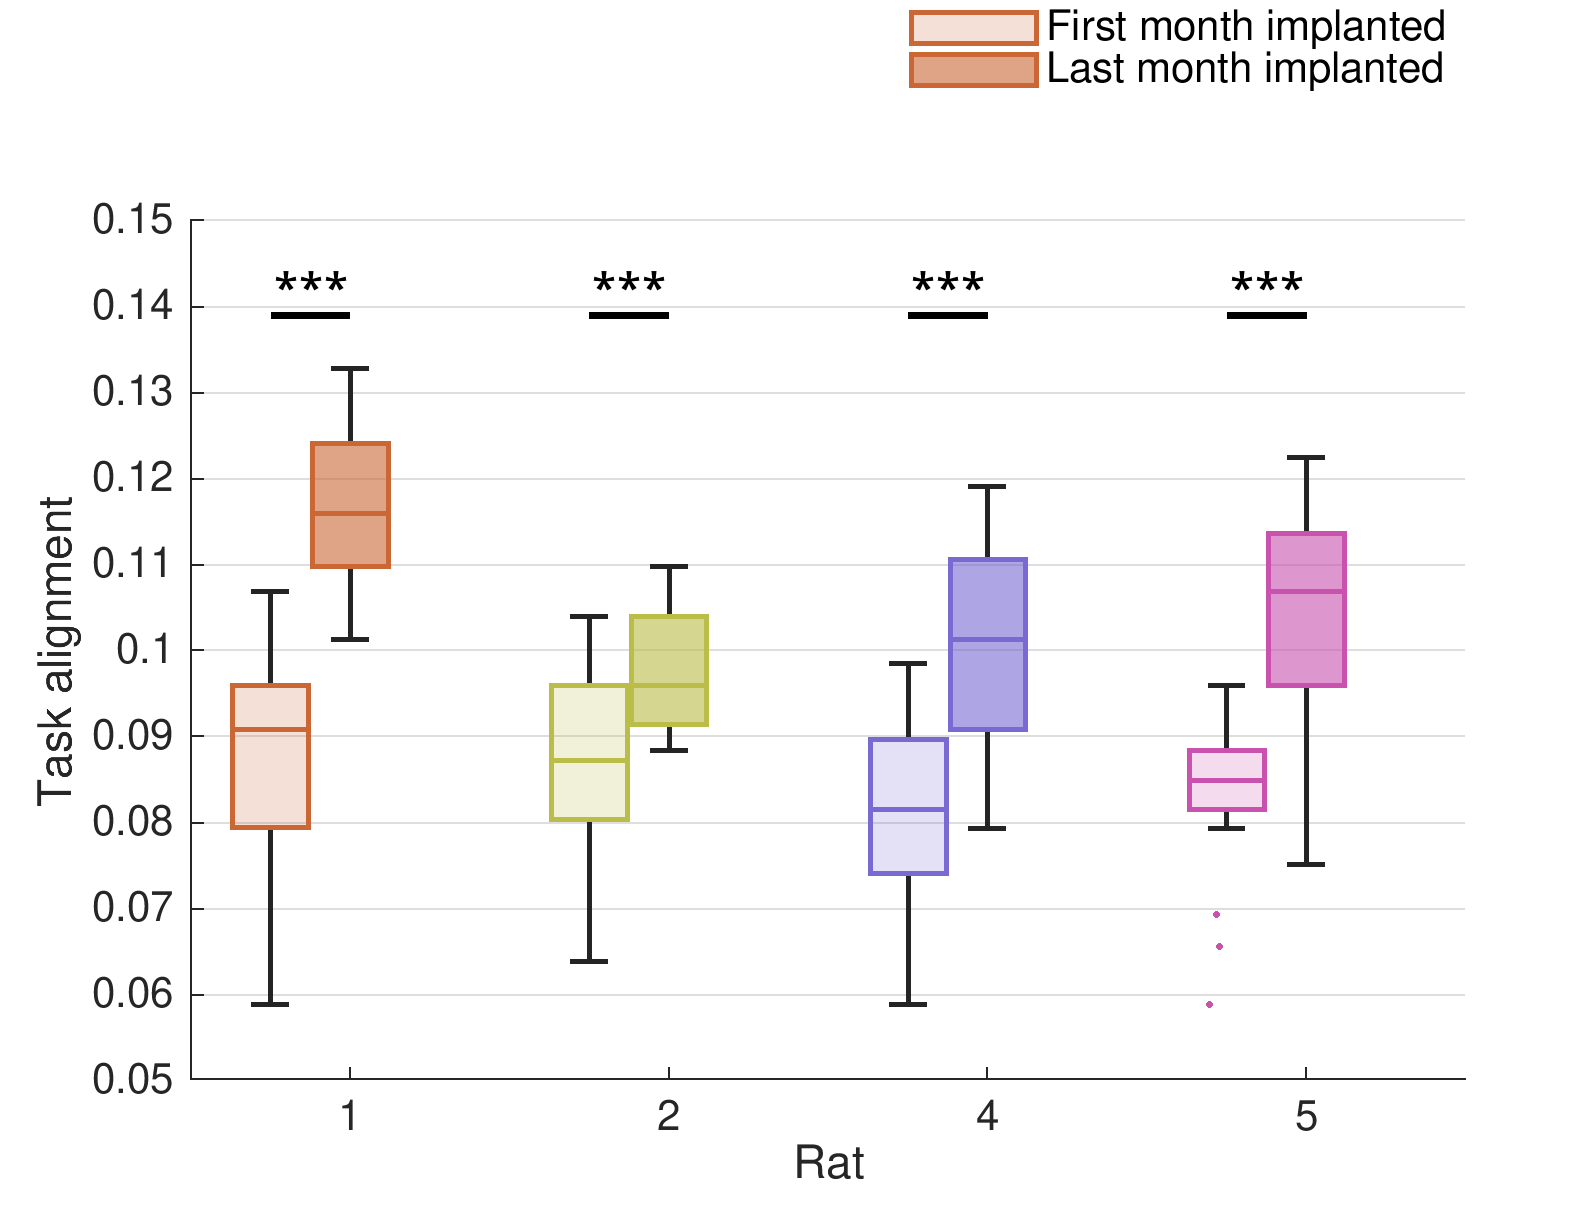
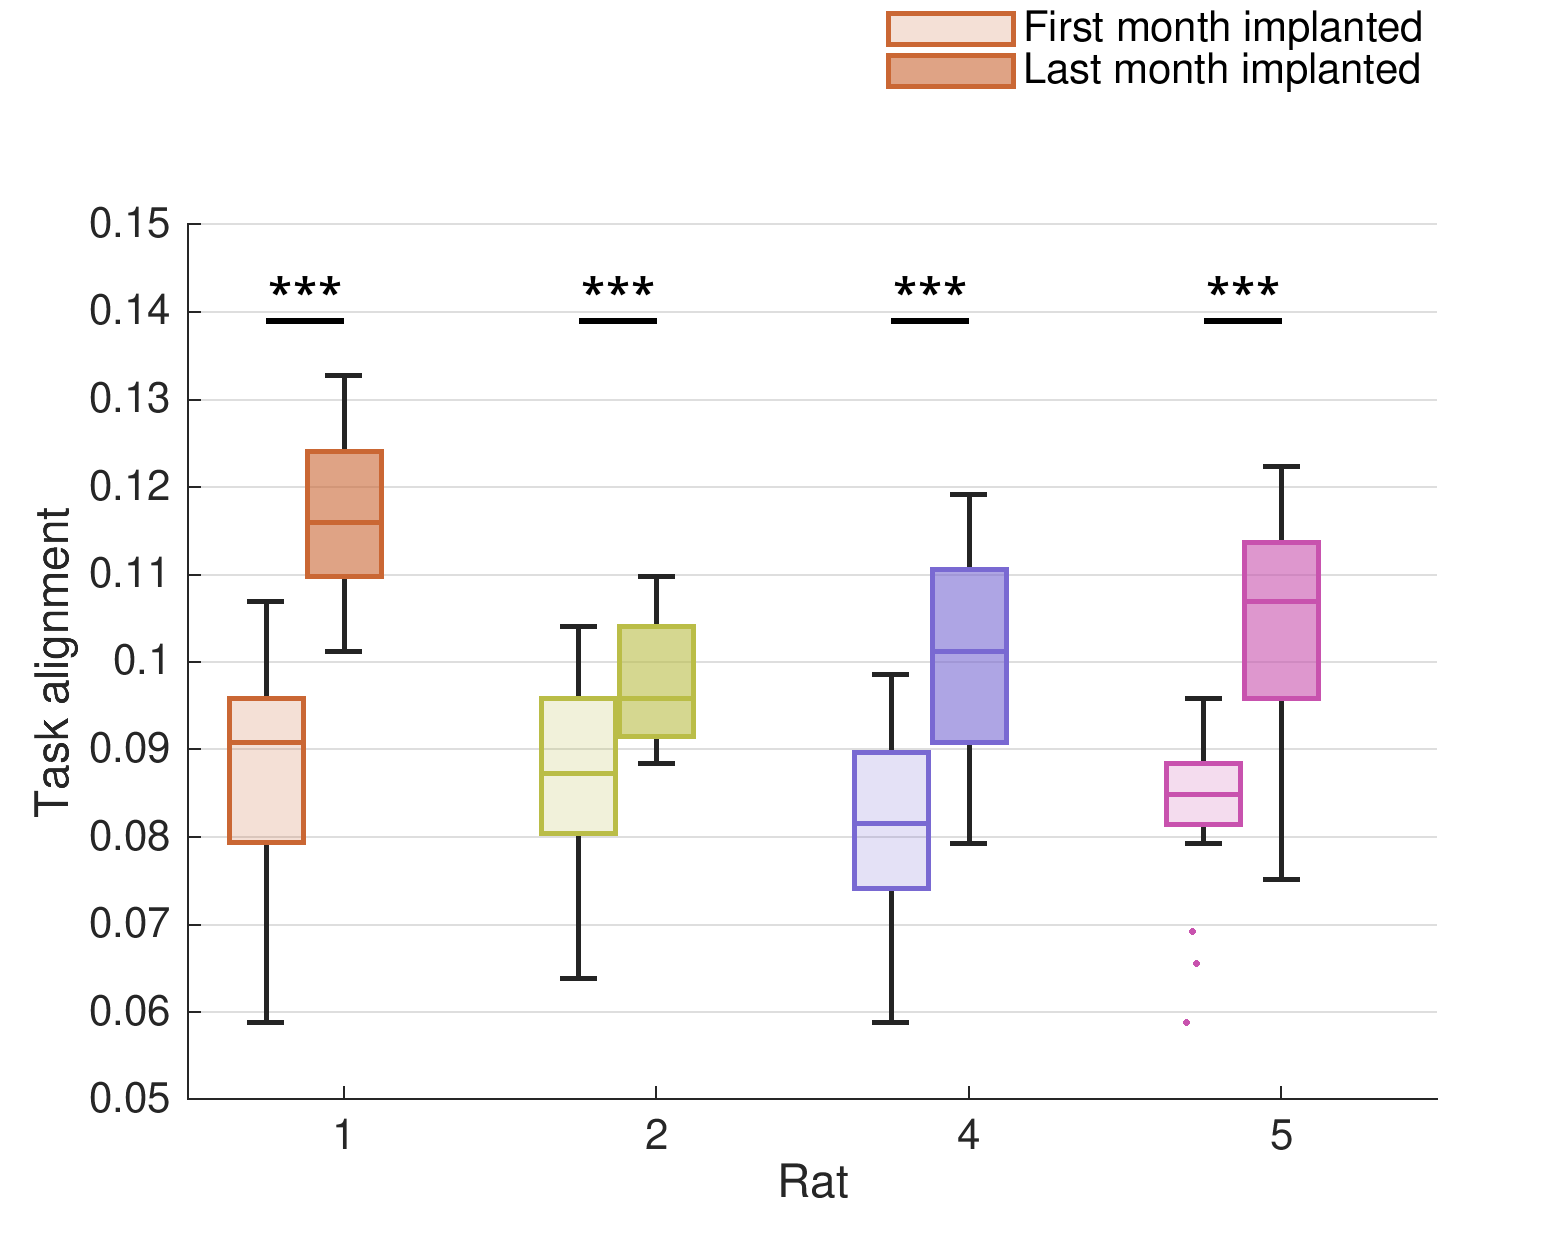
Refactor Fig03

diff --git a/fig03/fig03_panel.m b/fig03/fig03_panel.m
@@ -25,6 +25,7 @@ if strcmp(bhvmeasure, "TA")
 else
     ylabel = "Success rate";
     do_taskalignment = false;
+    ylim = [.2 .9];
 end
 
 
@@ -57,9 +58,34 @@ for irat = irats
         'MarkerEdgeColor', options.RatColors(irat, :), ...
         'MarkerEdgeAlpha', alpha, ...
         'MarkerFaceAlpha', alpha);
-end
+    if ~do_initial
+        plot(ax, xdata, movmean(ydata, 28), 'LineStyle', '-', ...
+            'Color', options.RatColors(irat, :), 'LineWidth', 2);
+        fprintf('Rat %d up to day %d\n', rat, xdata(end));
+    end
 end
 
 ax.YLabel.String = ylabel;
 ax.XLabel.String = xlabel;
 ax.YGrid = "on";
+
+% insert analysis period markers
+
+% ymin = ylim(1);
+% ygap = .04;
+% l = ax2.XLim(2);
+if ~do_initial
+    starts = [0 50 150];
+    for i = 1:3
+        f = starts(i);
+        xline(ax, f, 'LineWidth', 1.5, 'Color', .1 * [1 1 1]);
+    end
+    ax.YTick = ax.YTick(1:2:end);
+    ax.XLim = [0 410];
+end
+
+if ~do_taskalignment
+    ax.YLim = ylim;
+end
+
+% ax.YTick = ax.YTick(1:2:end);

diff --git a/fig03/plot_learning_helper.m b/fig03/plot_learning_helper.m
@@ -13,7 +13,6 @@ ax2.NextPlot = "add";
 
 rats = 4:8;
 
-
 for irat = 1:5
     rat = rats(irat);
     idx = (meta.Rat == rat) & (meta.phase == "initial");
